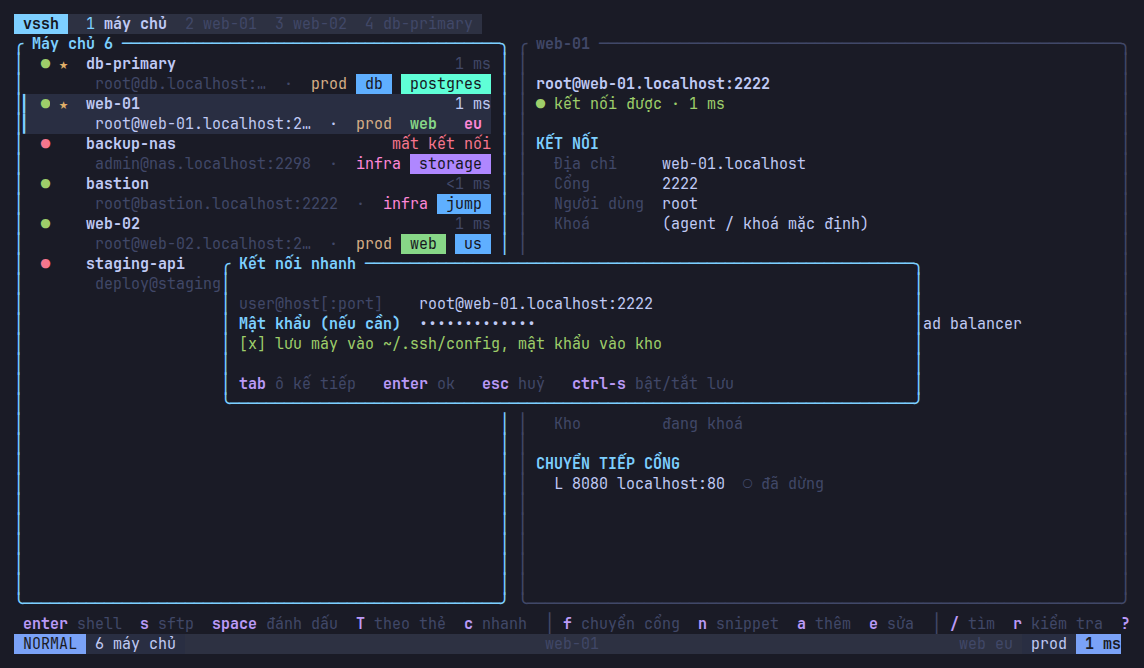
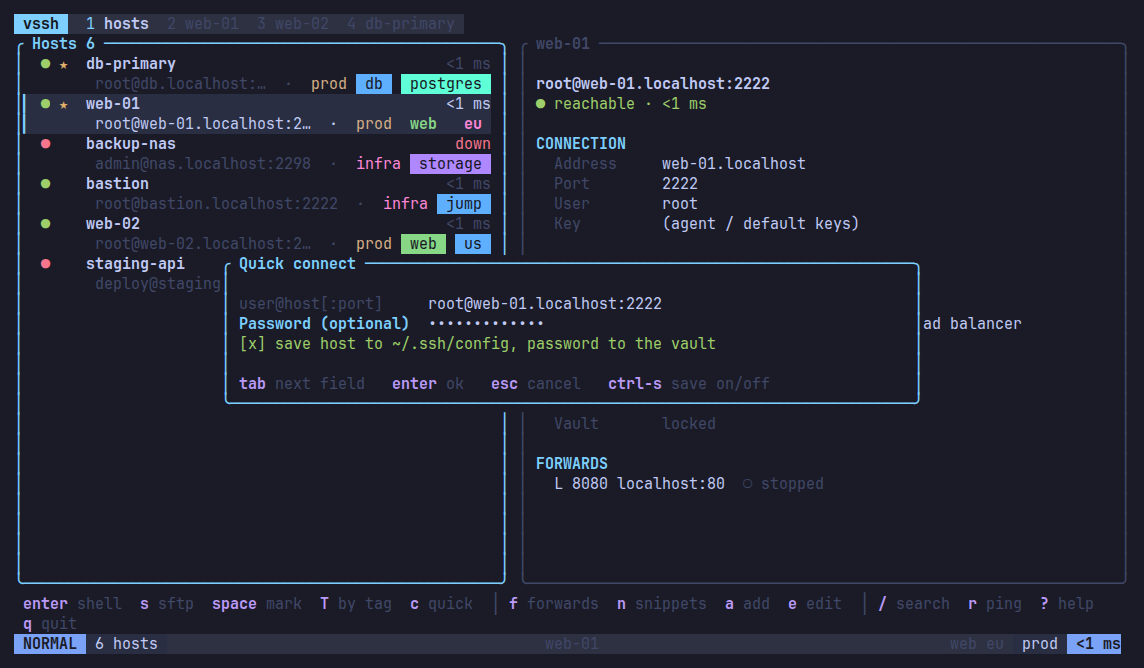
docs: per-language screenshots - English README gets English shots, Vietnamese gets Vietnamese

diff --git a/docs/img/shots.py b/docs/img/shots.py
@@ -19,8 +19,10 @@ DEMO = Path("/tmp/vssh-demo")
 OUT = Path(__file__).resolve().parent
 COLS, ROWS = 124, 32
 SOCKET = "vssh-shots"
-# The README pictures show the Vietnamese interface.
-LANG = "vi"
+# Both languages: the English README shows the English interface, the
+# Vietnamese one shows Vietnamese. Shots run once per language; Vietnamese
+# files get a .vi suffix, demo GIFs demo.gif / demo.vi.gif.
+LANGS = [("en", ""), ("vi", ".vi")]
 # the demo password is assembled so no password-shaped literal sits in the tree
 DEMO_PW = "demo-" + "pass" + "word"
 
@@ -127,19 +129,19 @@ def text(string, wait=0.4):
     time.sleep(wait)
 
 
-def start():
+def start(lang):
     subprocess.run(["tmux", "-L", SOCKET, "kill-server"], capture_output=True)
     env = f"env -u SSH_AUTH_SOCK HOME={DEMO}/home TERM=xterm-256color"
     tmux("new-session", "-d", "-s", "v", "-x", str(COLS), "-y", str(ROWS), "-c", f"{DEMO}/work",
-         f"{env} {DEMO}/vssh --lang {LANG}; sleep 600")
+         f"{env} {DEMO}/vssh --lang {lang}; sleep 600")
     time.sleep(1.2)
 
 
 frames = []
 
 
-def shot(name=None):
-    """Captures the screen as a GIF frame, and as <name>.png if given."""
+def shot(name=None, suffix=""):
+    """Captures the screen as a GIF frame, and as <name><suffix>.png if given."""
     page = DEMO / f"frame{len(frames):02}.html"
     png = page.with_suffix(".png")
     page.write_text(to_html(tmux("capture-pane", "-e", "-p", "-t", "v")))
@@ -149,12 +151,15 @@ def shot(name=None):
                    check=True, capture_output=True)
     frames.append(png)
     if name:
-        (OUT / f"{name}.png").write_bytes(png.read_bytes())
+        (OUT / f"{name}{suffix}.png").write_bytes(png.read_bytes())
 
 
-def main():
+def run_shots(lang, suffix):
+    """One full pass of the shots, in one language. Fills `frames`."""
+    global frames
+    frames = []
     # Off camera: two real sessions, so the usage numbers in the pictures are real.
-    start()
+    start(lang)
     for _ in range(2):
         text("/web-01")
         keys("Enter", "Enter", wait=3)
@@ -183,12 +188,13 @@ def main():
         ("web-01", "reload nginx", "nginx -s reload"),
     ])
     db.commit()
+    db.close()
 
-    start()
+    start(lang)
     shot()
     keys("r", wait=2.5)           # reachability
     keys("j")
-    shot("hosts")
+    shot("hosts", suffix)
     text("/#web")                 # filter by tag
     shot()
     keys("Escape")
@@ -203,9 +209,9 @@ def main():
     keys("M-b")                   # broadcast: one command, three shells
     text('echo "shell $$ on $(hostname)"')
     keys("Enter", wait=1)
-    shot("broadcast")
+    shot("broadcast", suffix)
     keys("C-a")                   # the leader menu
-    shot("which-key")
+    shot("which-key", suffix)
     keys("w")
     keys("g")                     # 2x2 grid
     shot()
@@ -217,7 +223,7 @@ def main():
     keys("Tab")
     text(DEMO_PW)
     keys("C-s")                   # tick "save host and password"
-    shot("quick-connect")
+    shot("quick-connect", suffix)
     keys("Escape")
 
     keys("g")
@@ -225,7 +231,7 @@ def main():
     keys("s", wait=3)             # SFTP
     keys("Tab")
     keys("j", "j")
-    shot("sftp")
+    shot("sftp", suffix)
     keys("q")
     shot()
     subprocess.run(["tmux", "-L", SOCKET, "kill-server"], capture_output=True)
@@ -235,8 +241,14 @@ def main():
     listing.write_text("".join(f"file '{p}'\nduration 1.6\n" for p in frames + frames[-1:]))
     palette = "split[a][b];[a]palettegen=max_colors=96[p];[b][p]paletteuse=dither=none"
     subprocess.run(["ffmpeg", "-v", "error", "-y", "-f", "concat", "-safe", "0", "-i", str(listing),
-                    "-vf", palette, str(OUT / "demo.gif")], check=True)
-    print(f"{len(frames)} frames, {sum(1 for _ in OUT.glob('*.png'))} screenshots in {OUT}")
+                    "-vf", palette, str(OUT / f"demo{suffix}.gif")], check=True)
+    print(f"[{lang}] {len(frames)} frames -> demo{suffix}.gif")
+
+
+def main():
+    for lang, suffix in LANGS:
+        run_shots(lang, suffix)
+    print(f"{sum(1 for _ in OUT.glob('*.png'))} screenshots in {OUT}")
 
 
 if __name__ == "__main__":

diff --git a/README.md b/README.md
@@ -24,7 +24,7 @@ plain `ssh` keeps working with everything vssh edits.
 | **Leader menu (`Ctrl-a`)** | **SFTP** |
 | ![Which-key popup listing the session keys](docs/img/which-key.png) | ![Dual-pane SFTP browser](docs/img/sftp.png) |
 
-The pictures show the Vietnamese interface (`vssh --lang vi`); English is the default. They are captured from the real app by [`docs/img/demo.sh`](docs/img/demo.sh) (terminal contents rendered to images); the hosts in them are a local demo container.
+All pictures are captured from the real app by [`docs/img/demo.sh`](docs/img/demo.sh) (terminal contents rendered to images), in this interface language; the hosts in them are a local demo container.
 
 Linux and macOS. Pure Rust SSH ([russh](https://github.com/warp-tech/russh)); no `ssh` binary needed.
 
